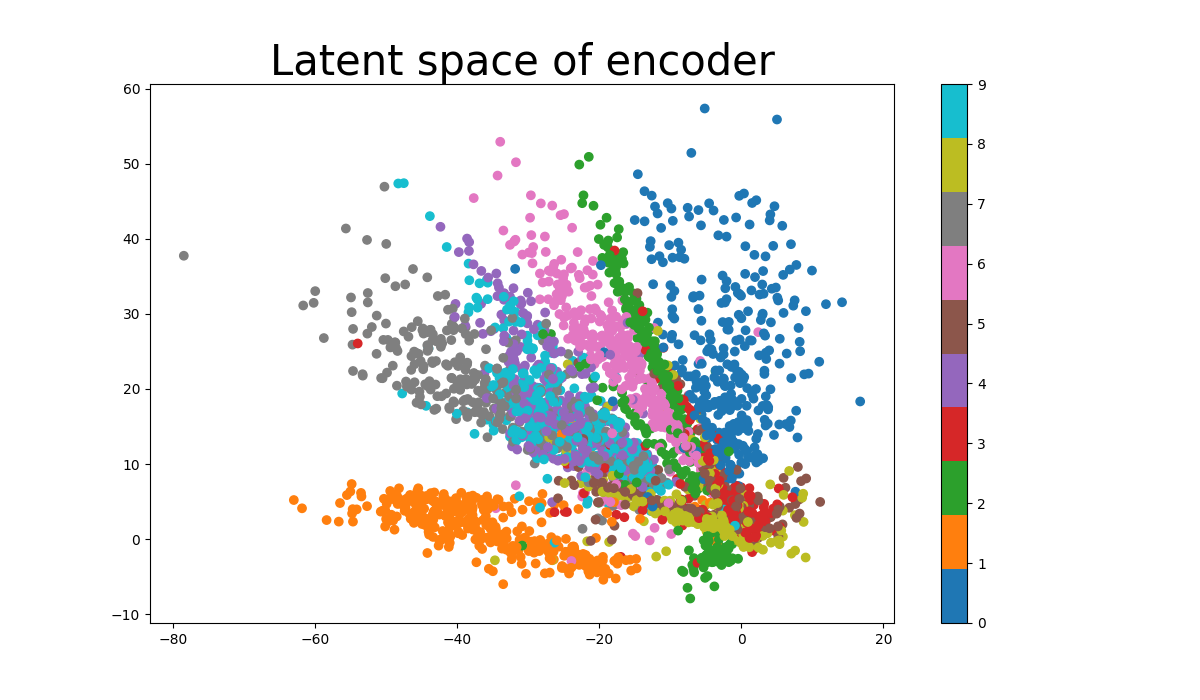
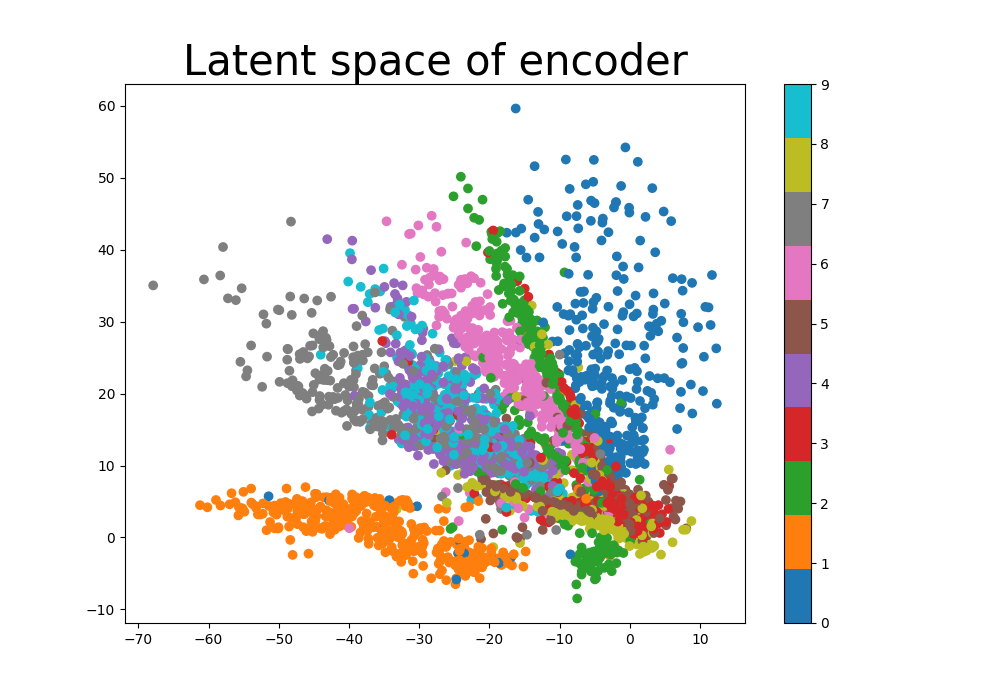
CODING: resize figures, add reconstructions for 2d

diff --git a/final_code/linear_AE/linear_AE_2d_adam/visualise.py b/final_code/linear_AE/linear_AE_2d_adam/visualise.py
@@ -7,6 +7,7 @@ from torch.utils.data import DataLoader
 
 DEVICE = "cuda" if torch.cuda.is_available() else "cpu"
 FONTSIZE_LATENT = 30
+FONTSIZE_RECONSTRUCTION = 30
 FONTSIZE_INFERENCE = 20
 
 
@@ -17,7 +18,7 @@ def plot_latent_2D_linear(
     num_batches=150,
 ) -> None:
     # Define the figure
-    fig = plt.figure(figsize=(12, 7))
+    fig = plt.figure(figsize=(10, 7))
     ax = fig.add_subplot(111)
 
     for i, (img, label) in enumerate(data_loader):
@@ -53,7 +54,7 @@ def plot_latent_2D_convolutional(
     num_batches=150,
 ) -> None:
     # Define the figure
-    fig = plt.figure(figsize=(12, 7))
+    fig = plt.figure(figsize=(10, 7))
     ax = fig.add_subplot(111)
 
     for i, (img, label) in enumerate(data_loader):
@@ -85,8 +86,9 @@ def plot_reconstructed_2D(
     autoencoder: Module,
     r0: tuple[int, int] = (-5, 10),
     r1: tuple[int, int] = (-10, 5),
-    n=12,
+    n=10,
 ) -> None:
+    plt.figure(figsize=(10, 7))
     w = 28
     img = torch.zeros((n * w, n * w))
     for i, y in enumerate(torch.linspace(*r1, n)):
@@ -96,6 +98,10 @@ def plot_reconstructed_2D(
             x_hat = x_hat.reshape(28, 28).to(DEVICE).detach()
             img[(n - 1 - i) * w : (n - 1 - i + 1) * w, j * w : (j + 1) * w] = x_hat
     plt.imshow(img, extent=[*r0, *r1])
+    plt.title("Reconstruction of latent space", fontsize=FONTSIZE_RECONSTRUCTION)
+    dir_path = os.path.dirname(os.path.realpath(__file__))
+    file_name = f"{os.path.basename(os.path.dirname(os.path.realpath(__file__)))}_reconstruction.png"  # noqa: E501
+    plt.savefig(os.path.join(dir_path, file_name))
     plt.show()
 
 

diff --git a/final_code/linear_AE/linear_AE_2d_amsgrad/visualise.py b/final_code/linear_AE/linear_AE_2d_amsgrad/visualise.py
@@ -7,6 +7,7 @@ from torch.utils.data import DataLoader
 
 DEVICE = "cuda" if torch.cuda.is_available() else "cpu"
 FONTSIZE_LATENT = 30
+FONTSIZE_RECONSTRUCTION = 30
 FONTSIZE_INFERENCE = 20
 
 
@@ -17,7 +18,7 @@ def plot_latent_2D_linear(
     num_batches=150,
 ) -> None:
     # Define the figure
-    fig = plt.figure(figsize=(12, 7))
+    fig = plt.figure(figsize=(10, 7))
     ax = fig.add_subplot(111)
 
     for i, (img, label) in enumerate(data_loader):
@@ -53,7 +54,7 @@ def plot_latent_2D_convolutional(
     num_batches=150,
 ) -> None:
     # Define the figure
-    fig = plt.figure(figsize=(12, 7))
+    fig = plt.figure(figsize=(10, 7))
     ax = fig.add_subplot(111)
 
     for i, (img, label) in enumerate(data_loader):
@@ -85,8 +86,9 @@ def plot_reconstructed_2D(
     autoencoder: Module,
     r0: tuple[int, int] = (-5, 10),
     r1: tuple[int, int] = (-10, 5),
-    n=12,
+    n=10,
 ) -> None:
+    plt.figure(figsize=(10, 7))
     w = 28
     img = torch.zeros((n * w, n * w))
     for i, y in enumerate(torch.linspace(*r1, n)):
@@ -96,6 +98,10 @@ def plot_reconstructed_2D(
             x_hat = x_hat.reshape(28, 28).to(DEVICE).detach()
             img[(n - 1 - i) * w : (n - 1 - i + 1) * w, j * w : (j + 1) * w] = x_hat
     plt.imshow(img, extent=[*r0, *r1])
+    plt.title("Reconstruction of latent space", fontsize=FONTSIZE_RECONSTRUCTION)
+    dir_path = os.path.dirname(os.path.realpath(__file__))
+    file_name = f"{os.path.basename(os.path.dirname(os.path.realpath(__file__)))}_reconstruction.png"  # noqa: E501
+    plt.savefig(os.path.join(dir_path, file_name))
     plt.show()
 
 

diff --git a/final_code/linear_AE/linear_AE_2d_adam/main.py b/final_code/linear_AE/linear_AE_2d_adam/main.py
@@ -5,7 +5,7 @@ from isa_linear_AE import LinearAutoEncoder
 from torch.utils.data import DataLoader
 from torchvision import datasets, transforms
 
-from visualise import inference_linear, plot_latent_2D_linear
+from visualise import inference_linear, plot_latent_2D_linear, plot_reconstructed_2D
 
 DEVICE = torch.device("cuda" if torch.cuda.is_available() else "cpu")
 # CONFIG
@@ -35,3 +35,4 @@ if __name__ == "__main__":
     # plot
     plot_latent_2D_linear(model, data_loader, num_batches=NUM_BATCHES)
     inference_linear(model, data_loader, 10)
+    plot_reconstructed_2D(model, (-60, 10), (-10, 60))

diff --git a/final_code/linear_AE/linear_AE_2d_amsgrad/main.py b/final_code/linear_AE/linear_AE_2d_amsgrad/main.py
@@ -5,7 +5,7 @@ from isa_linear_AE import LinearAutoEncoder
 from torch.utils.data import DataLoader
 from torchvision import datasets, transforms
 
-from visualise import inference_linear, plot_latent_2D_linear
+from visualise import inference_linear, plot_latent_2D_linear, plot_reconstructed_2D
 
 DEVICE = torch.device("cuda" if torch.cuda.is_available() else "cpu")
 # CONFIG
@@ -35,3 +35,4 @@ if __name__ == "__main__":
     # plot
     plot_latent_2D_linear(model, data_loader, num_batches=NUM_BATCHES)
     inference_linear(model, data_loader, 10)
+    plot_reconstructed_2D(model, (-20, 30), (-10, 40))

diff --git a/mnist/VAE/main.py b/mnist/VAE/main.py
@@ -1,7 +1,7 @@
 import os
 
 import torch
-from isa29.isa_runner import ConvolutionalVariationalAutoencoder
+from isa29.isa_runner_snd import ConvolutionalVariationalAutoencoder
 from torch.utils.data import DataLoader
 from torchvision import datasets, transforms
 
